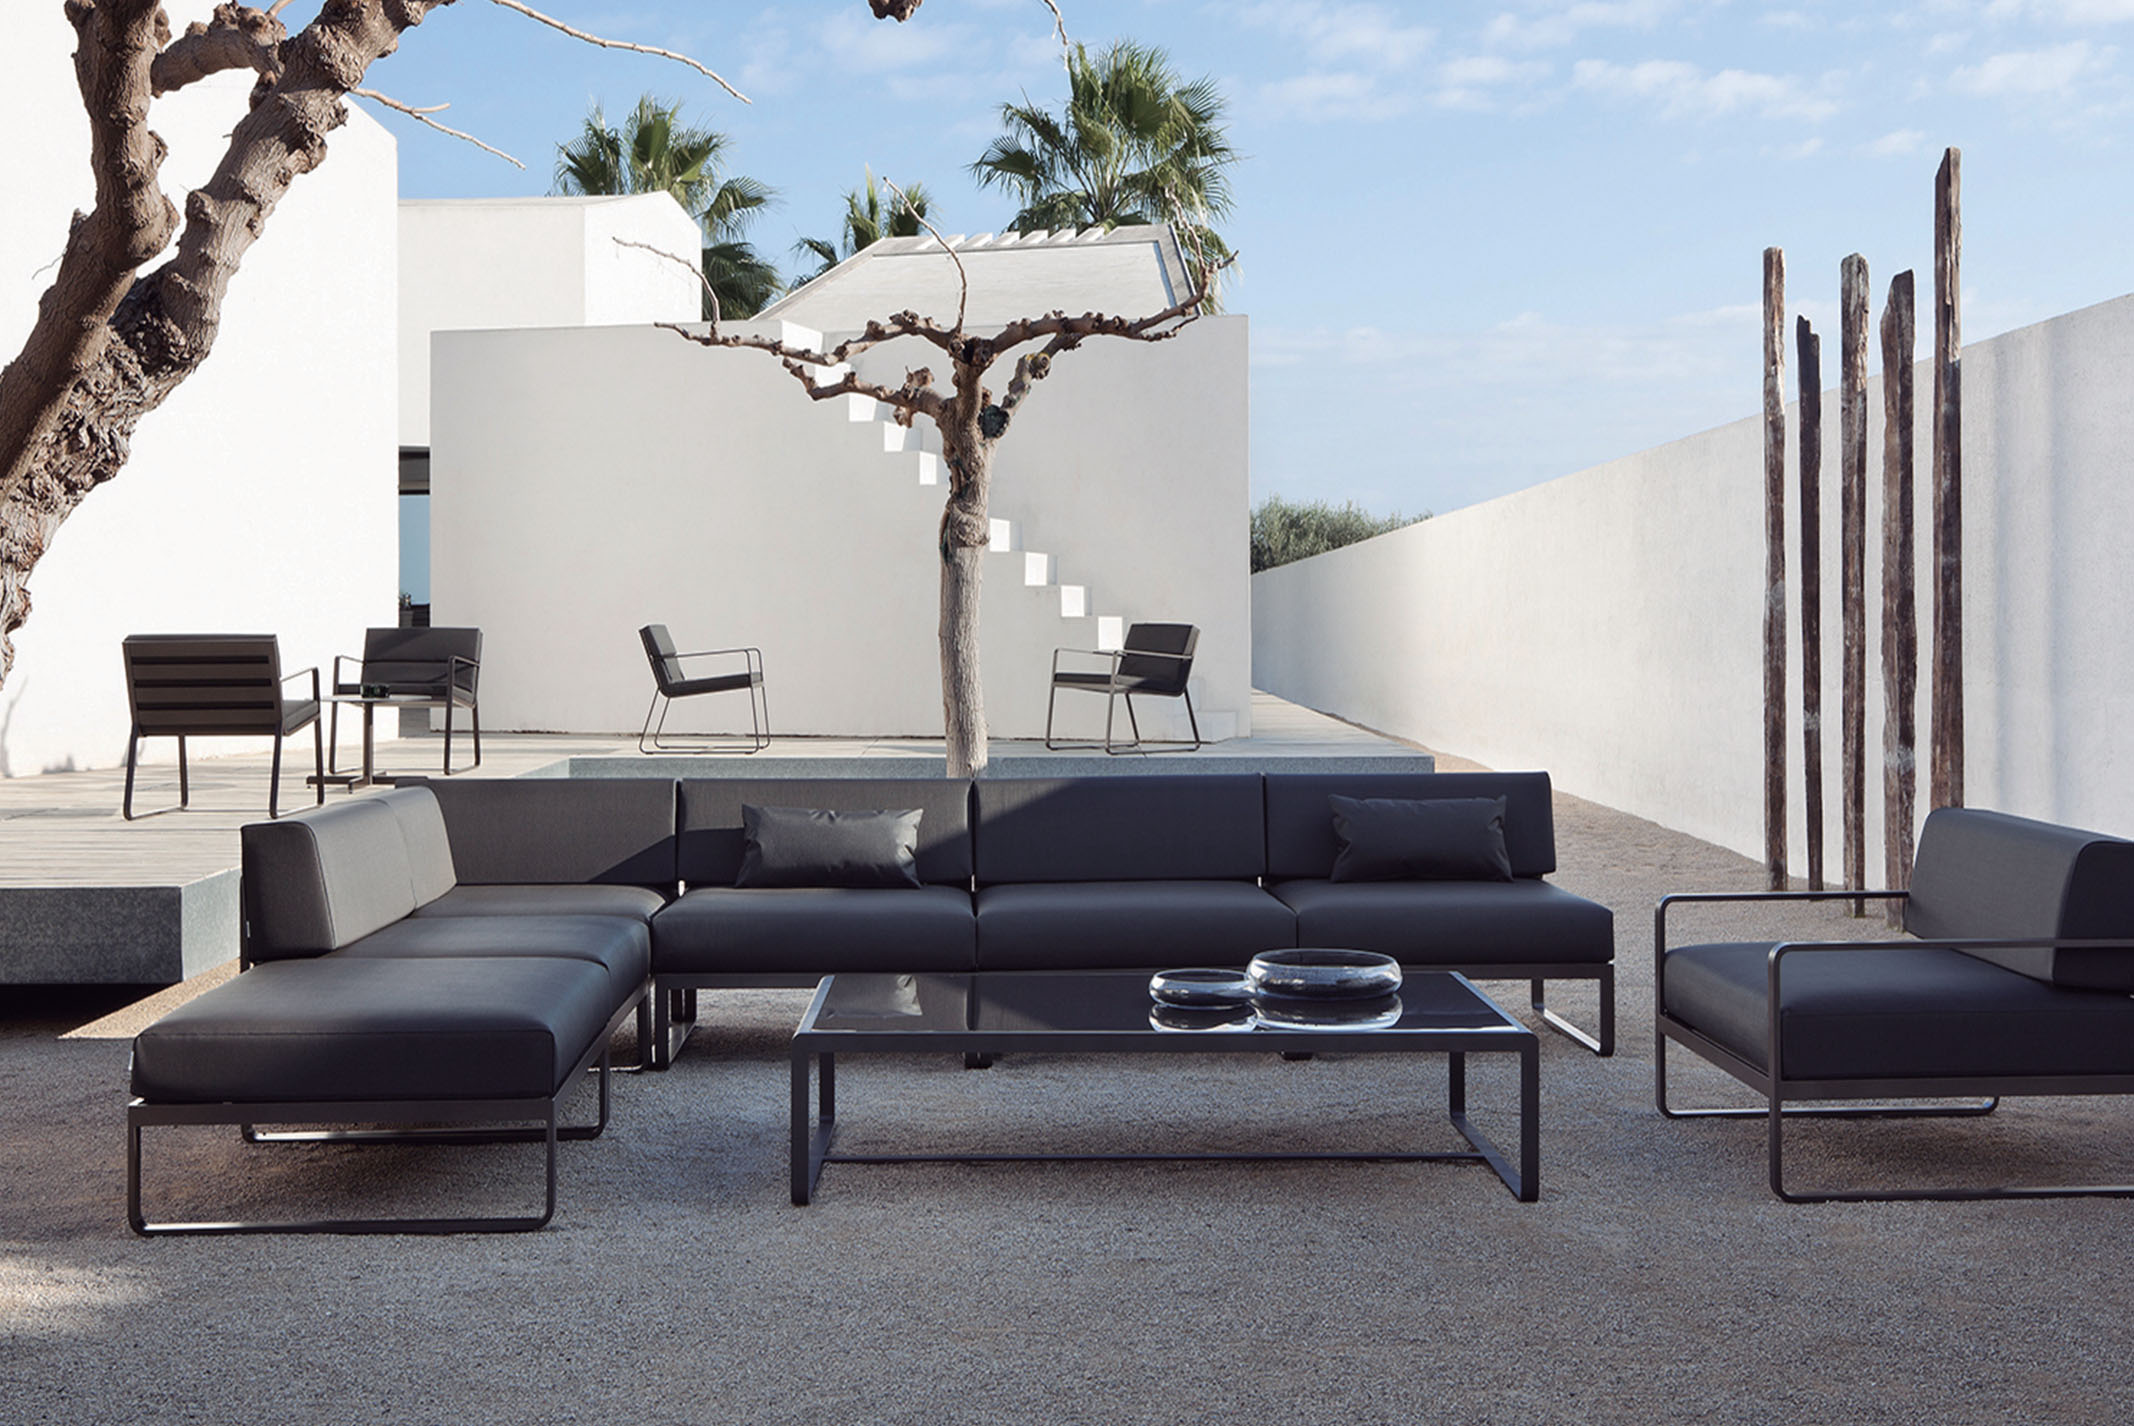
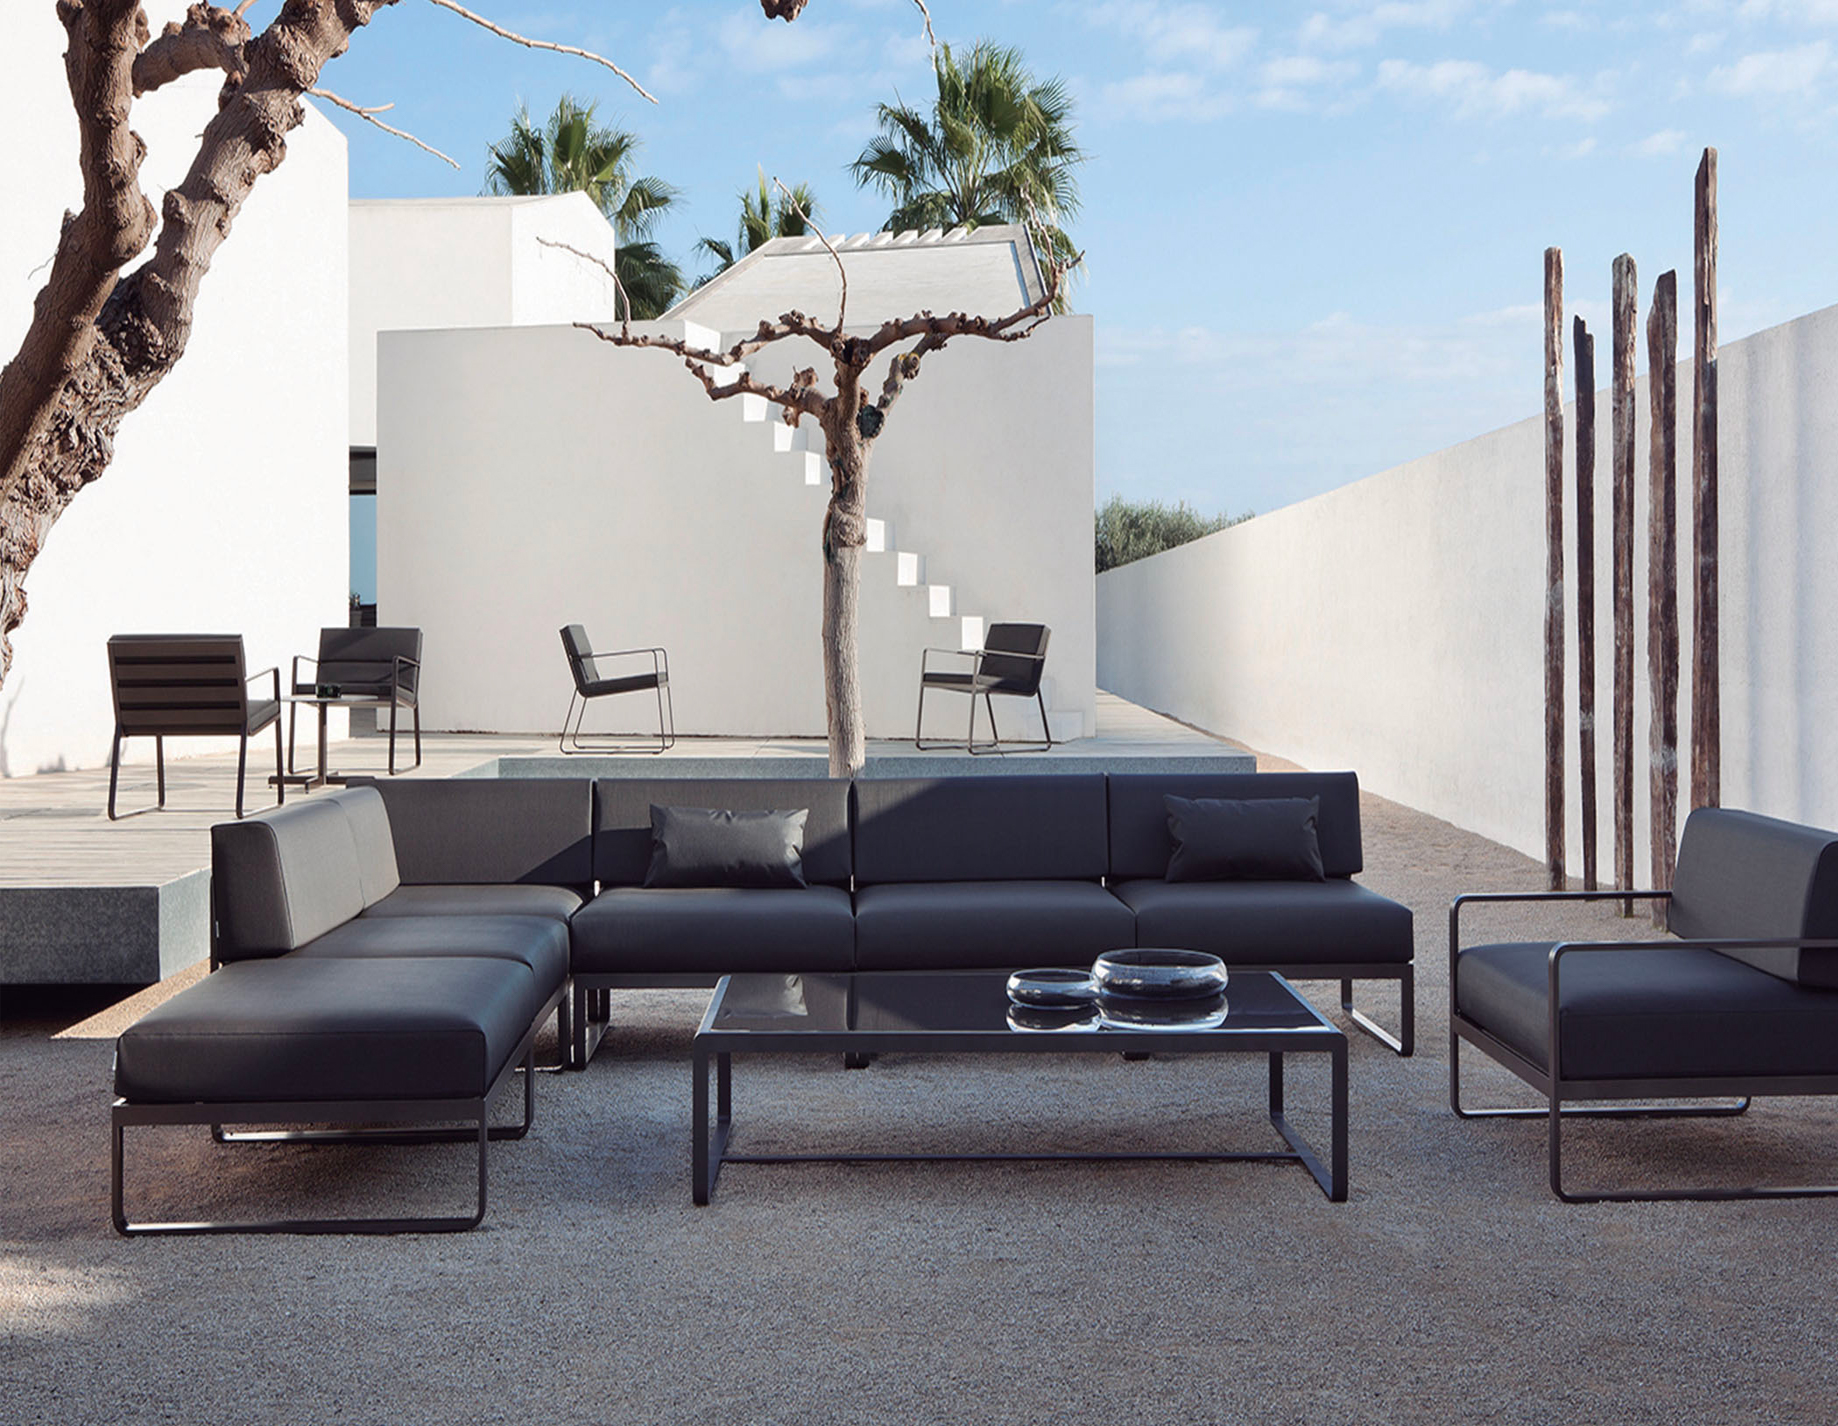
image fixes, header

diff --git a/index.html b/index.html
@@ -34,7 +34,7 @@
                 <ul class="navbar-nav ms-auto">
                     <li class="nav-item"><a class="nav-link" href="#about">Présentation</a></li>
                     <li class="nav-item"><a class="nav-link" href="#projects">Nos marques</a></li>
-                    <li class="nav-item"><a class="nav-link" href="#signup">Contact</a></li>
+                    <li class="nav-item"><a class="nav-link" href="#contact">Contact</a></li>
                 </ul>
             </div>
         </div>
@@ -85,7 +85,7 @@
             </div>
             <!-- Project One Row-->
             <div class="row gx-0 justify-content-center">
-                <div class="col-lg-6 parent-brand"><img class="img-brands" src="assets/img/bd-photo.png" alt="BD Barcelona" /></div>
+                <div class="col-lg-6 parent-brand"><img class="img-brands" src="assets/img/bd-photo.jpg" alt="BD Barcelona" style="object-position: left top"/></div>
                 <div class="col-lg-6 order-lg-first">
                     <div class="bg-black text-center h-100 project">
                         <div class="d-flex h-100">
@@ -103,9 +103,9 @@
                 <div class="col-lg-6 parent-brand"><img class="img-brands" src="assets/img/bontempi-photo.png" alt="Bontempi" /></div>
                 <div class="col-lg-6">
                     <div class="bg-black text-center h-100 project">
-                        <div class="d-flex h-100">
-                            <div class="project-text w-100 my-auto text-center text-lg-left">
-                                <a class="brand-logos" href="https://www.bontempi.it/it_fr/" target="_blank"><img class="img-brands-logos" src="assets/img/logo-black/bontempi.png" alt="logo-bontempi"  /></a>
+                        <div class="d-flex h-100" >
+                            <div class="project-text w-100 my-auto text-center text-lg-left" >
+                                <a class="brand-logos" href="https://www.bontempi.it/it_fr/" target="_blank"><img class="img-brands-logos bg-black" src="assets/img/logo-black/bontempi.png" alt="logo-bontempi" /></a>
                                 <p class="mb-0 text-white-50">L’entreprise familiale Italienne se distingue par une recherche obsessionnelle de la qualité guidée par la passion.
                                     Elle offre une gamme complète pour l’habitat et des solutions pour le secteur contract alliant beauté, fonctionnalité et confort.</p>
                                 <hr class="d-none d-lg-block mb-0 ms-0" />
@@ -116,12 +116,12 @@
             </div>
             <!-- Project Three Row-->
             <div class="row gx-0 justify-content-center">
-                <div class="col-lg-6 parent-brand"><img class="img-brands" src="assets/img/bivaq-photo.jpg" alt="Bivaq" /></div>
+                <div class="col-lg-6 parent-brand"><img class="img-brands" src="assets/img/bivaq-photo.jpg" alt="Bivaq" style="object-position: left top ; width: 100%"/></div>
                 <div class="col-lg-6 order-lg-first">
                     <div class="bg-black text-center h-100 project">
                         <div class="d-flex h-100">
                             <div class="project-text w-100 my-auto text-center text-lg-right">
-                                <a class="brand-logos" href="https://www.bontempi.it/it_fr/" target="_blank"><img class="img-brands-logos" src="assets/img/logo-black/bivaq.png" alt="logo-bivaq"  /></a>
+                                <a class="brand-logos" href="https://www.bontempi.it/it_fr/" target="_blank"><img class="img-brands-logos" src="assets/img/logo-black/bivaq.png" alt="logo-bivaq" /></a>
                                 <p class="mb-0 text-white-50">Les collections outdoor Bivaq respectent les plus haut critères de qualité et de confort, dans l’esprit des extérieurs méditerranéens. La marque Barcelonaise développe son activité à la fois sur le marché résidentiel, du contract et de l'hôtellerie, en réalisant des projets avec ses propres conceptions ou des propositions sur mesure.</p>
                                 <hr class="d-none d-lg-block mb-0 ms-0" />
                             </div>
@@ -221,7 +221,7 @@
         </div>
     </section> -->
     <!-- Contact-->
-    <section class="contact-section bg-black">
+    <section class="contact-section bg-black" id="contact">
         <div class="container px-4 px-lg-5">
             <div class="row gx-4 gx-lg-5">
                 <div class="col-md-4 mb-3 mb-md-0">
@@ -240,7 +240,7 @@
                             <i class="fas fa-envelope text-primary mb-2"></i>
                             <h4 class="text-uppercase m-0">Email</h4>
                             <hr class="my-4 mx-auto" />
-                            <div class="text-black-60"><a href="#!">3ddesign@wanadoo.fr</a>
+                            <div class="text-black-60"><a href="mailto:3ddesign@wanadoo.fr">3ddesign@wanadoo.fr</a>
                             </div>
                         </div>
                     </div>
@@ -257,9 +257,9 @@
                 </div>
             </div>
             <div class="social d-flex justify-content-center">
-                <a class="mx-4" href="https://www.instagram.com/3ddesigndiffusion/?hl=fr"><i class="fab fa-instagram fa-3x"></i></a>
-                <a class="mx-4" href="https://www.pinterest.fr/3DDESIGNDIFFUSION/"><i class="fab fa-pinterest fa-3x"></i></a>
-                <a class="mx-4" href="www.linkedin.com/company/3d-design-diffusion/"><i class="fab fa-linkedin fa-3x"></i></a>
+                <a class="mx-4" href="https://www.instagram.com/3ddesigndiffusion/?hl=fr" target="_blank"><i class="fab fa-instagram fa-3x"></i></a>
+                <a class="mx-4" href="https://www.pinterest.fr/3DDESIGNDIFFUSION/" target="_blank"><i class="fab fa-pinterest fa-3x"></i></a>
+                <a class="mx-4" href="https://www.linkedin.com/company/3d-design-diffusion/" target="_blank"><i class="fab fa-linkedin fa-3x"></i></a>
 
             </div>
         </div>

diff --git a/css/styles.css b/css/styles.css
@@ -8365,7 +8365,6 @@ fieldset:disabled .btn {
 .text-black-50 {
   --bs-text-opacity: 1;
   font-weight: 200;
-  font-size: larger;
 
   color: rgba(0, 0, 0, 0.5) !important;
 }
@@ -8374,7 +8373,6 @@ fieldset:disabled .btn {
   --bs-text-opacity: 1;
   color: rgba(255, 255, 255, 0.8) !important;
   font-weight: 200;
-  font-size: larger;
 }
 
 .text-reset {
@@ -12067,7 +12065,7 @@ body {
 }
 
 .projects-section {
-  padding: 10rem 0;
+  padding: 2rem 0;
 }
 .projects-section .featured-text {
   padding: 2rem;
@@ -12079,13 +12077,10 @@ body {
   }
 }
 .projects-section .project-text {
-  padding: 3rem;
+  padding: 2.5rem;
   font-size: 90%;
 }
 @media (min-width: 992px) {
-  .projects-section .project-text {
-    padding: 5rem;
-  }
   .projects-section .project-text hr {
     border-color: #0e2747;
     border-width: 0.25rem;
@@ -12182,5 +12177,14 @@ body {
 }
 
 .logo-main {
-  width: 30rem;
+  max-width: 30rem;
+}
+
+@media (max-width: 575.98px) {
+  .logo-main {
+    max-width: 100%;
+  }
+  .navbar-brand{
+    font-size: 16px;
+  }
 }
